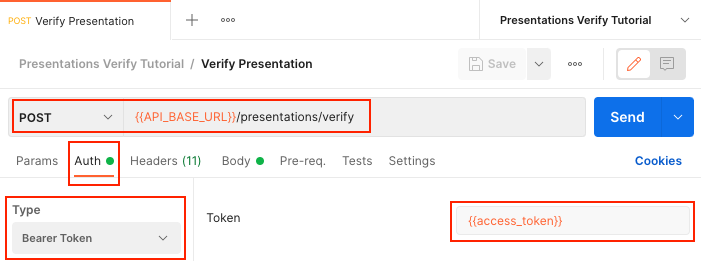
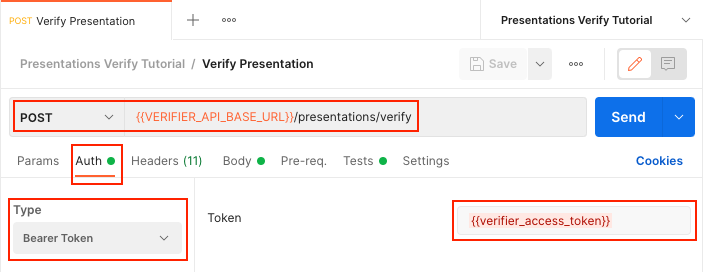
fix: migrate presentations verify tutorial
Migrate the "Presentations Verify" to the issuer/verifier multi-provider format used by the "Presentations Exchange" tutorial.

FIXES: #216

diff --git a/docs/tutorials/presentations-verify/README.md b/docs/tutorials/presentations-verify/README.md
@@ -13,10 +13,10 @@ In this tutorial we will use the OAuth token from the Authentication Tutorial to
 
 This tutorial will be picking up where the Presentations Exchange Tutorial left off; the quickest way to get set up to work on this tutorial is to:
 
-1. Duplicate the "Presentations Exchange Tutorial" and rename it to "Presentations Verify Tutorial".
-1. Duplicate the "Presentations Exchange Environment" and rename it to "Presentations Verify Environment".
+1. Duplicate the "Presentations Exchange Tutorial" collection and rename it to "Presentations Verify Tutorial".
+1. Duplicate the "Presentations Exchange Tutorial" environment and rename it to "Presentations Verify Tutorial".
 
-Be sure to activate the new "Presentations Verify Environment" by selecting it in the drop-down menu at the top-right of the Postman interface.
+Be sure to activate the new "Presentations Verify Tutorial" environment by selecting it in the drop-down menu at the top-right of the Postman interface.
 
 <img src="./resources/select-environment.png"/>
 
@@ -32,8 +32,8 @@ No additional environment variables are needed for this request, all required en
 
 Create a new `POST` request called "Verify Presentation" in the "Presentations Verify Tutorial" collection.
 
-* Set the request URL to `{{API_BASE_URL}}/presentations/verify`.
-* In the "Auth" tab, select "Bearer Token" set the "Token" value to `{{access_token}}`.
+* Set the request URL to `{{VERIFIER_API_BASE_URL}}/presentations/verify`.
+* In the "Auth" tab, select "Bearer Token" set the "Token" value to `{{verifier_access_token}}`.
 * In the "Headers" tab, dd an `Accept` header with the value `application/json`.
 * In the body tab, add the following raw JSON:
   ```json
@@ -59,12 +59,12 @@ The "Verify Presentation" request is part of the system under test, and as such 
 The following code should be added to the "Verify Presentation" request in the "Tests" tab:
 
 ```javascript
-// The `/presentations/available` endpoint is authenticated. This test will not
-// prevent the request from running when the `access_token` collection variable
-// is missing, but it will give an indication of why the request failed in that
-// scenario.
-pm.test("`access_token` collection variable must be set", function () {
-    pm.expect(pm.collectionVariables.get("access_token")).to.not.be.undefined;
+// This endpoint is authenticated. This test will not prevent the request from
+// running when the `verifier_access_token` collection variable is missing, but
+// it will give an indication of why the request failed in that scenario.
+pm.test("`verifier_access_token` collection variable must be set", function () {
+    const verifier_access_token = pm.collectionVariables.get("verifier_access_token");
+    pm.expect(verifier_access_token).to.be.a('string').that.is.not.empty;
 });
 
 // Verifiable verifiable_presentation is a required element item used in the
@@ -117,11 +117,17 @@ _Example: Run postman collection from the command-line_
 ```sh
 source .env && \
 npx newman run ./presentations-verify.postman_collection.json \
---env-var ORGANIZATION_DID_WEB=$ORGANIZATION_DID_WEB \
---env-var CLIENT_ID=$CLIENT_ID \
---env-var CLIENT_SECRET=$CLIENT_SECRET \
---env-var TOKEN_AUDIENCE=$TOKEN_AUDIENCE \
---env-var TOKEN_ENDPOINT=$TOKEN_ENDPOINT \
---env-var API_BASE_URL=$API_BASE_URL \
+--env-var ISSUER_ORGANIZATION_DID_WEB=$ISSUER_ORGANIZATION_DID_WEB \
+--env-var ISSUER_CLIENT_ID=$ISSUER_CLIENT_ID \
+--env-var ISSUER_CLIENT_SECRET=$ISSUER_CLIENT_SECRET \
+--env-var ISSUER_TOKEN_AUDIENCE=$ISSUER_TOKEN_AUDIENCE \
+--env-var ISSUER_TOKEN_ENDPOINT=$ISSUER_TOKEN_ENDPOINT \
+--env-var ISSUER_API_BASE_URL=$ISSUER_API_BASE_URL \
+--env-var VERIFIER_ORGANIZATION_DID_WEB=$VERIFIER_ORGANIZATION_DID_WEB \
+--env-var VERIFIER_CLIENT_ID=$VERIFIER_CLIENT_ID \
+--env-var VERIFIER_CLIENT_SECRET=$VERIFIER_CLIENT_SECRET \
+--env-var VERIFIER_TOKEN_AUDIENCE=$VERIFIER_TOKEN_AUDIENCE \
+--env-var VERIFIER_TOKEN_ENDPOINT=$VERIFIER_TOKEN_ENDPOINT \
+--env-var VERIFIER_API_BASE_URL=$VERIFIER_API_BASE_URL \
 --reporters cli,json
 ```
